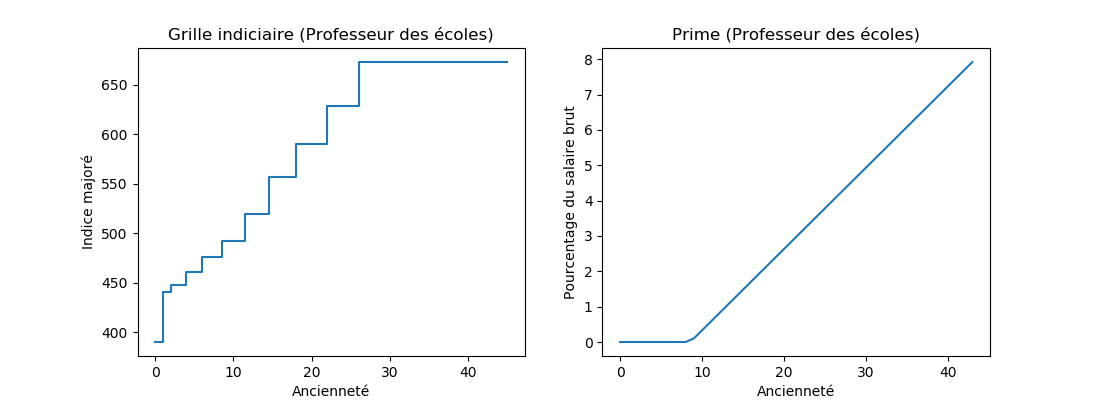
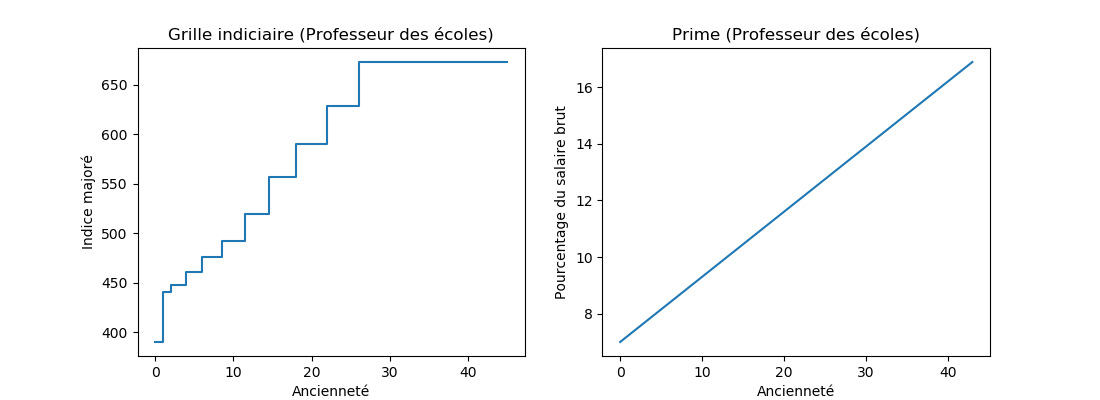
correction README

diff --git a/carriere.py b/carriere.py
@@ -509,7 +509,7 @@ m2 = modele_destinie(debut,fin)
 #
 
 dir_images="./fig/"
-c=carriere_public(m1,25,1980,"ProfEcoles",0.07)
+c=carriere_public(m1,25,2019,"ProfEcoles",0.07)
 c.plot_grille_prime()
 mysavefig("Carriere_ProfEcoles")
 

diff --git a/README.md b/README.md
@@ -18,7 +18,7 @@ Voila une comparaison des 2 modèles macro-économiques pour l'instant considér
 
 ![](./fig/gouv_vs_dest.jpg)
 
-Considérons un *professeur des écoles ayant une prime de 10% en 2019*. Voici l'évolution de sa carrière (en point d'indice et en prime):
+Considérons un *professeur des écoles ayant une prime de 7% en 2019*. Voici l'évolution de sa carrière (en point d'indice et en prime):
 
 ![](./fig/Carriere_ProfEcoles.png)
 
